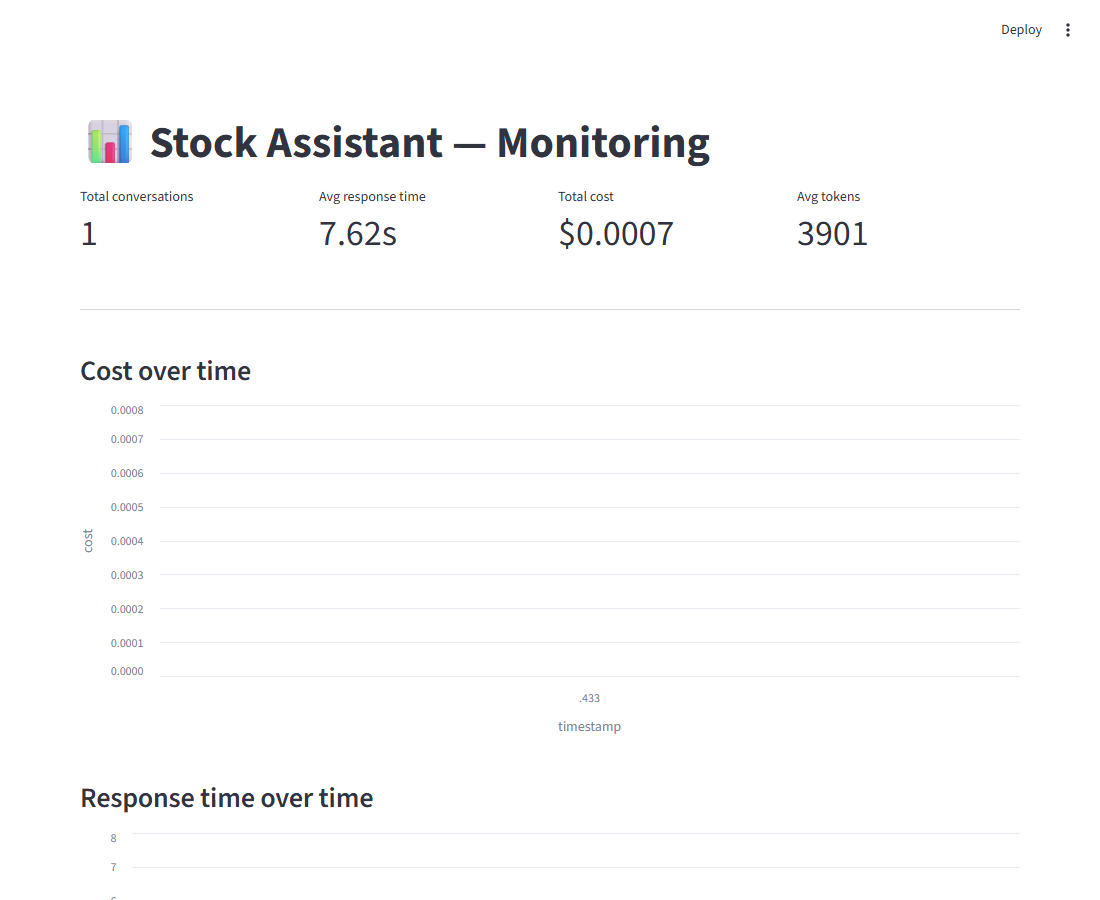
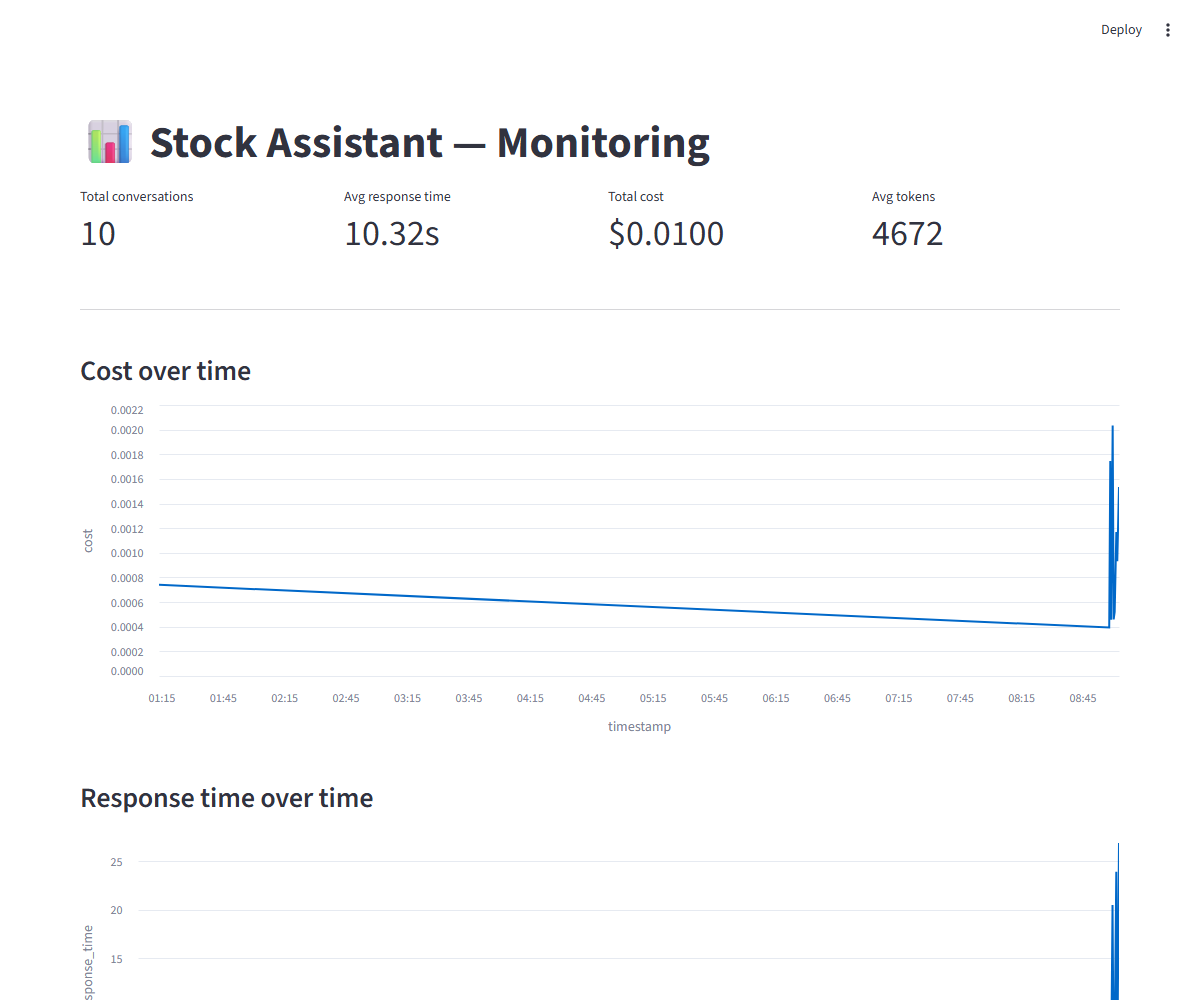
Add per-tool screenshots, refresh dashboard screenshot
Real conversations for all 9 tools, collapsed under the tools table so
the README doesn't turn into a wall of images. Dashboard screenshot
now reflects 10 real logged conversations instead of 1.

diff --git a/README.md b/README.md
@@ -50,6 +50,41 @@ can call:
 | `get_dividends` | `GET /stocks/v1/dividends` |
 | `search_company_knowledge_base` | hybrid search over the ingested overviews + news |
 
+<details>
+<summary>Each tool in action (real conversations, click to expand)</summary>
+
+**get_market_status** — "Is the U.S. stock market open right now?"
+![get_market_status](docs/tools/get_market_status.png)
+
+**get_stock_snapshot** — "What's Microsoft trading at right now, including today's range?"
+![get_stock_snapshot](docs/tools/get_stock_snapshot.png)
+
+**get_previous_close** — "What was Tesla's open, high, low, close and volume yesterday?"
+![get_previous_close](docs/tools/get_previous_close.png)
+
+**get_price_history** — "Show me Apple's daily closing prices for the last 10 days."
+![get_price_history](docs/tools/get_price_history.png)
+
+**get_company_overview** — "What exchange does Netflix trade on, and what's its market cap?"
+![get_company_overview](docs/tools/get_company_overview.png)
+
+**get_top_movers** — "What are today's biggest gaining stocks?" (free plan doesn't include this
+endpoint — the agent explains the limitation instead of guessing, and the judge correctly
+flags the answer as not relevant)
+![get_top_movers](docs/tools/get_top_movers.png)
+
+**get_stock_news** — "What's the latest news on Google?"
+![get_stock_news](docs/tools/get_stock_news.png)
+
+**get_dividends** — "What are IBM's most recent dividend payments?"
+![get_dividends](docs/tools/get_dividends.png)
+
+**search_company_knowledge_base** — "What does Coca-Cola do as a company, and why might it be
+in the news?"
+![search_company_knowledge_base](docs/tools/search_company_knowledge_base.png)
+
+</details>
+
 Get a free key at [massive.com/dashboard/signup](https://massive.com/dashboard/signup).
 A few limits on the free plan are worth knowing about up front (see
 [massive.com/pricing](https://massive.com/pricing)): **5 requests/minute**, **2 years
